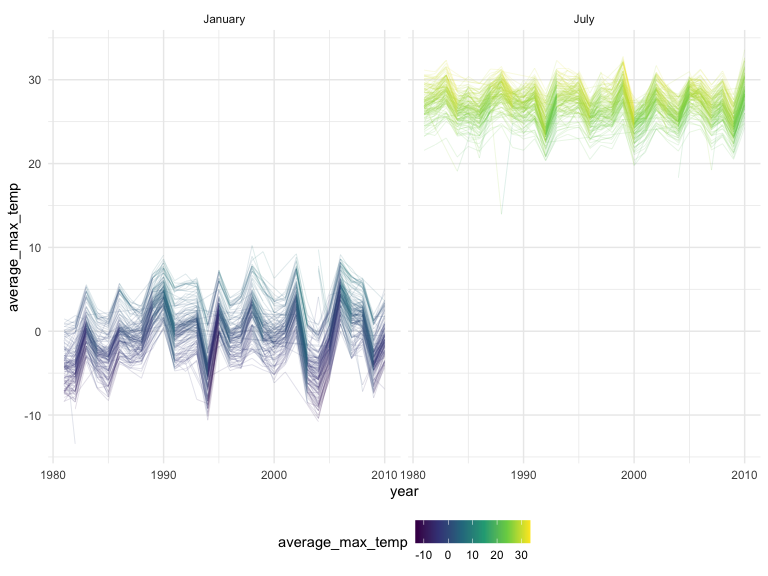
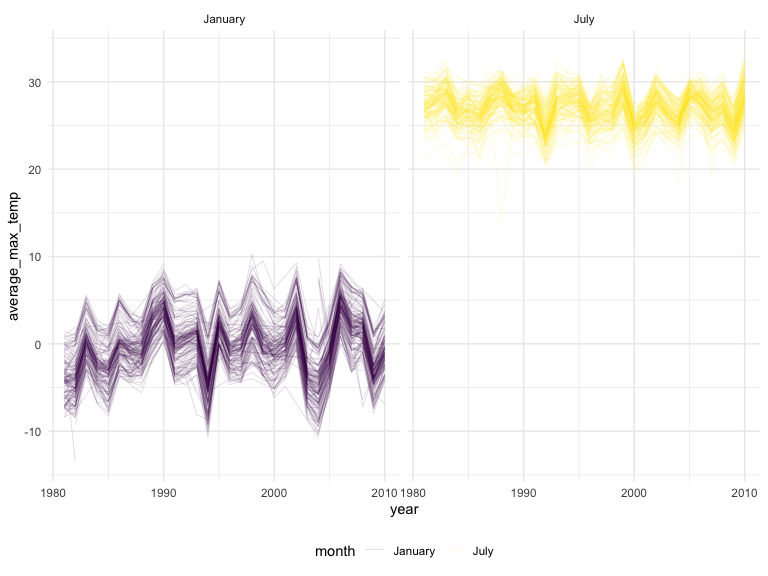
change Q3 plots - final commmit I guess

diff --git a/p8105_hw3_yl4610.md b/p8105_hw3_yl4610.md
@@ -322,7 +322,7 @@ missing values snwd: Snow depth variable has 591786 missing values tmin:
 Minimum temperature has 1134420 missing values tmax: Maximum temperature
 has 1134358 missing values
 
-missing data is an issue
+Missing data is a big issue here because we have a lot of them.
 
 ``` r
 ny_noaadf %>% 
@@ -347,7 +347,11 @@ arrange(desc(n_obs))
     ## 10     3    8790
     ## # … with 272 more rows
 
-The most commonly observed values for snow is 0.
+The most commonly observed values for snow is 0 because it has 2008508
+observations.
+
+Two-panel plot showing the average max temperature in January and in
+July in each station across years:
 
 ``` r
 ny_plot1 = 
@@ -358,7 +362,7 @@ group_by(id, year, month) %>%
 summarize(
 average_max_temp = mean(tmax, na.rm = TRUE)) %>% 
   ggplot(
-  aes(x = year, y = average_max_temp, color=average_max_temp, group=id)) +
+  aes(x = year, y = average_max_temp, color=month, group=id)) +
   geom_line(alpha = 0.5, size = .1) +
   facet_grid(.~month)
 ```
@@ -371,7 +375,15 @@ ny_plot1
 ```
 
 <img src="p8105_hw3_yl4610_files/figure-gfm/unnamed-chunk-12-1.png" width="90%" />
-Is there any observable / interpretable structure? Any outliers?
+Is there any observable / interpretable structure? Any outliers? The
+average max temperature in January is lower than the average max
+temperature in July in each station across year. Also, the range of
+average max temperature in January is greater than that in July.
+
+Make a two-panel plot showing (i) tmax vs tmin for the full dataset
+(note that a scatterplot may not be the best option); and (ii) make a
+plot showing the distribution of snowfall values greater than 0 and less
+than 100 separately by year
 
 ``` r
 ny_ploti =
